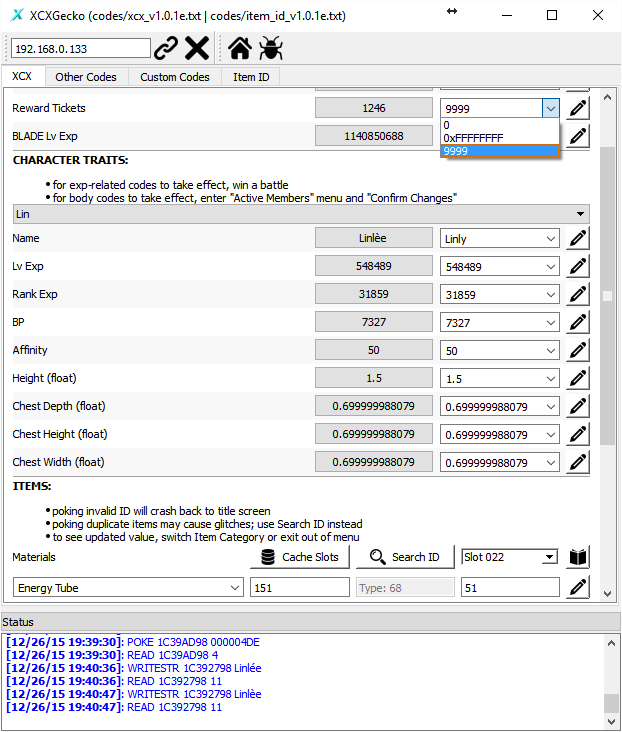
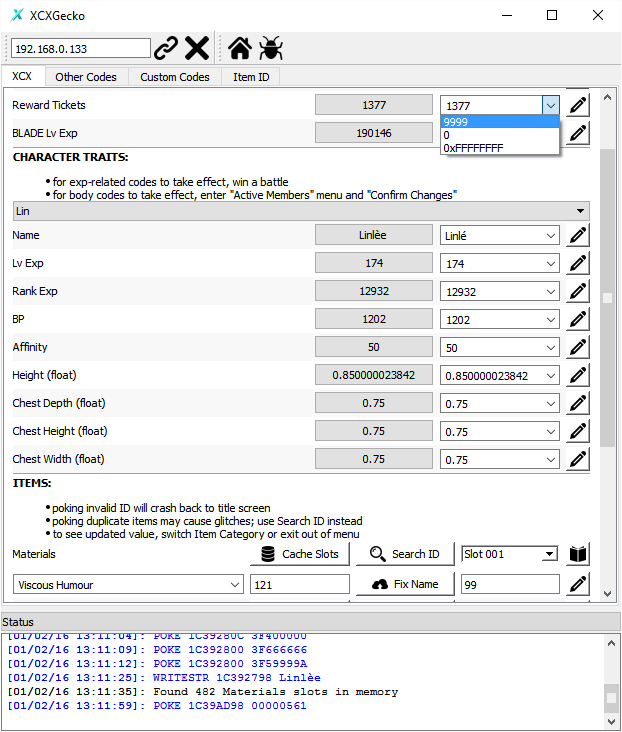
added reward tickets cap code (ptr)
* updated screenshot
* minor bugfix

diff --git a/xcxgui/ItemEntriesFrame.py b/xcxgui/ItemEntriesFrame.py
@@ -261,7 +261,7 @@ class ItemEntriesFrame(QFrame):
         self.updateUI()
         return
     self.log.emit('Did not find ID=%03X in %d cached %s slots' %
-                  (target_id_val, self.label, len(self.slots_cache)), 'red')
+                  (target_id_val, len(self.slots_cache), self.label), 'red')
 
   @pyqtSlot(int)
   def onChangeSlot(self, new_slot_idx):

diff --git a/XCXGecko.py b/XCXGecko.py
@@ -167,8 +167,3 @@ if __name__ == '__main__':
   app = QApplication(sys.argv)
   gui = XCXGeckoMainWindow()
   sys.exit(app.exec_())
-
-
-# TODO: look into max ticket addr (ptr?)
-# TODO: build + test all features + failures
-# TODO: commit + release
